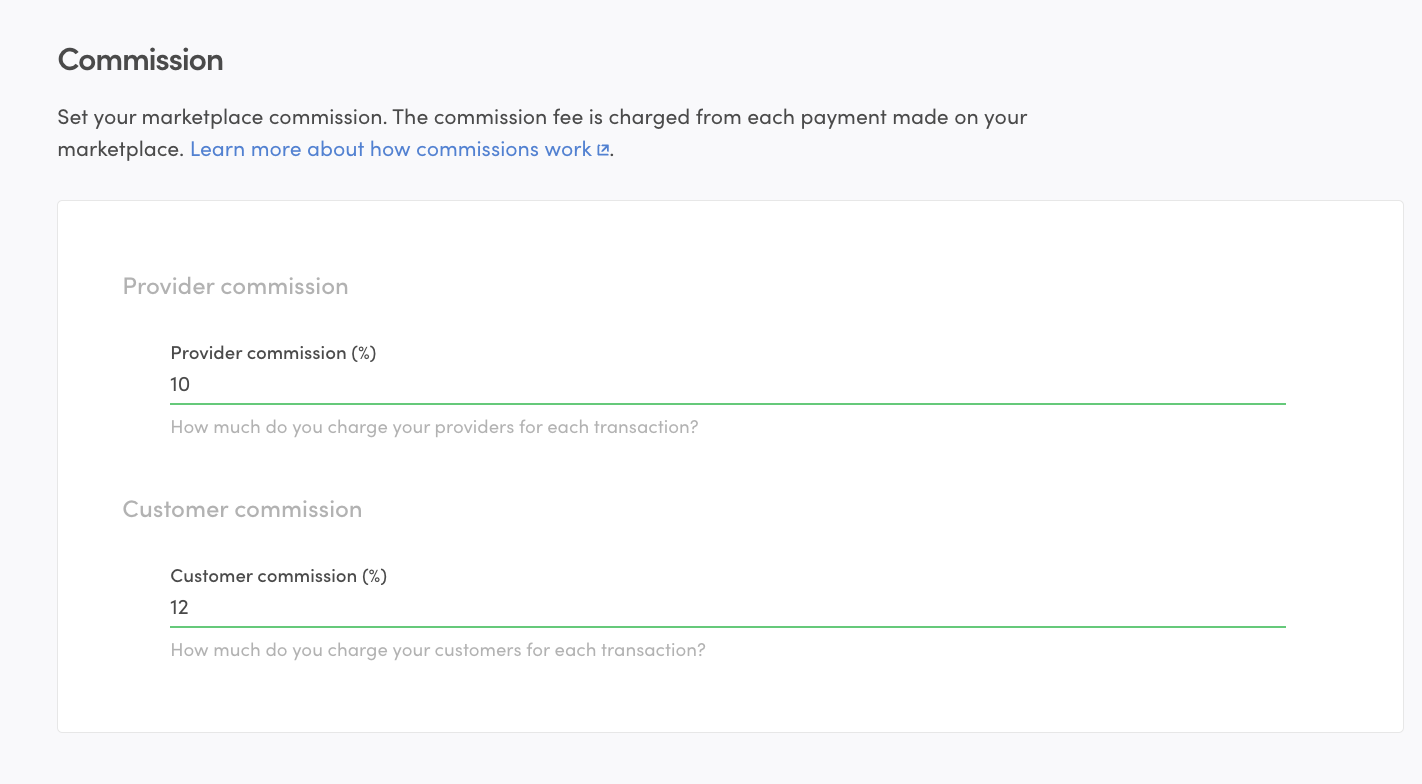
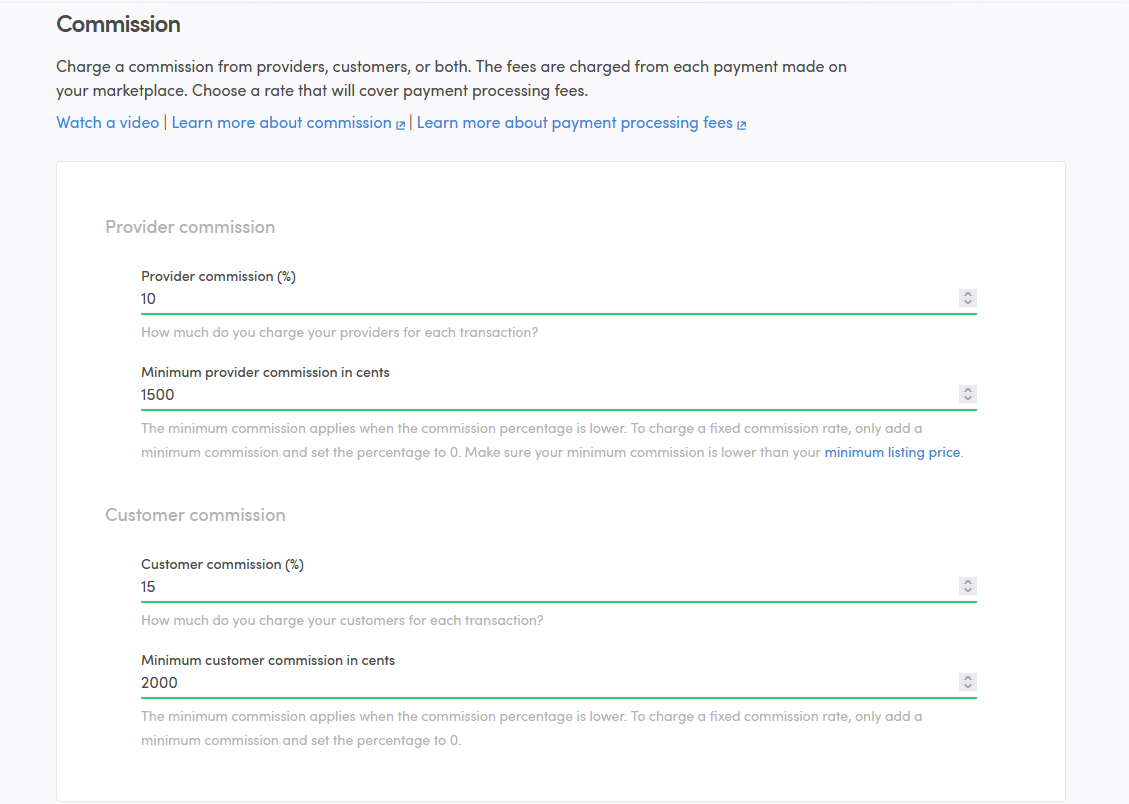
ConceptsPricingAndCommissoin: Updated to account for minimum comissions

diff --git a/src/docs/concepts-pricing-and-commissions/commissions-and-monetizing-your-platform/index.md b/src/docs/concepts-pricing-and-commissions/commissions-and-monetizing-your-platform/index.md
@@ -1,7 +1,7 @@
 ---
 title: Commissions and monetizing your platform
 slug: commissions-and-monetizing-your-platform
-updated: 2024-02-07
+updated: 2025-07-25
 category: concepts-pricing-and-commissions
 ingress:
   Sharetribe provides configurable options for monetizing your platform.
@@ -48,7 +48,8 @@ charged from the provider, the customer, or both.
 <info>
 
 If your application uses hosted configurations, you can define provider
-and customer commission percentages in Sharetribe Console.
+and customer commission percentages and minimum commission amounts in
+Sharetribe Console.
 
 ![Commission defined in Console](consoleCommission.png)
 
@@ -66,6 +67,8 @@ A marketplace that charges 10 % from the customer and 12 % from the
 provider would configure the commissions like this:
 
 ```js
+const { calculateTotalFromLineItems } = require('./lineItemHelpers');
+
 const PROVIDER_COMMISSION_PERCENTAGE = -12; // Provider commission is negative
 const CUSTOMER_COMMISSION_PERCENTAGE = 10; // Customer commission is positive
 
@@ -76,21 +79,25 @@ const order = {
   includeFor: ['customer', 'provider'],
 };
 
-const providerCommission = {
+const providerCommissionPercentage = {
   code: 'line-item/provider-commission',
   unitPrice: calculateTotalFromLineItems([order]),
   percentage: PROVIDER_COMMISSION_PERCENTAGE,
   includeFor: ['provider'],
 };
 
-const customerCommission = {
+const customerCommissionPercentage = {
   code: 'line-item/customer-commission',
   unitPrice: calculateTotalFromLineItems([order]),
   percentage: CUSTOMER_COMMISSION_PERCENTAGE,
   includeFor: ['customer'],
 };
 
-const lineItems = [order, providerCommission, customerCommission];
+const lineItems = [
+  order,
+  providerCommissionPercentage,
+  customerCommissionPercentage,
+];
 ```
 
 For a 100 EUR listing, this would result in a 110 EUR payin for the
@@ -135,14 +142,14 @@ const order = {
   includeFor: ['customer', 'provider'],
 };
 
-const providerCommission = {
+const providerCommissionFixed = {
   code: 'line-item/provider-commission',
   unitPrice: calculateCommission(unitPrice, FIXED_PROVIDER_COMMISSION),
   quantity: 1,
   includeFor: ['provider'],
 };
 
-const customerCommission = {
+const customerCommissionFixed = {
   code: 'line-item/customer-commission',
   unitPrice: calculateCommission(unitPrice, FIXED_CUSTOMER_COMMISSION),
   quantity: 1,
@@ -152,8 +159,8 @@ const customerCommission = {
 const lineItems = [
   order,
   ...extraLineItems,
-  providerCommission,
-  customerCommission,
+  providerCommissionFixed,
+  customerCommissionFixed,
 ];
 ```
 
@@ -174,6 +181,8 @@ but always at least 10 dollars.
 
 ### Example
 
+Add the following to _lineItemHelpers.js_:
+
 ```js
 // Base provider and customer commissions are fetched from assets
 const MINIMUM_PROVIDER_COMMISSION = -1000; // Negative commission in minor units, i.e. in USD cents
@@ -181,7 +190,7 @@ const CUSTOMER_COMMISSION_PERCENTAGE_REDUCTION = 3;
 
 const calculateProviderCommission = (order, providerCommission) => {
   // Use existing helper functions to calculate totals and percentages
-  const price = calculateTotalFromLineItems([order]);
+  const price = this.calculateTotalFromLineItems([order]);
   const commission = calculateTotalPriceFromPercentage(
     price,
     providerCommission
@@ -203,9 +212,52 @@ const calculateCustomerCommissionPercentage = (
     ? customerCommission.percentage -
       CUSTOMER_COMMISSION_PERCENTAGE_REDUCTION
     : customerCommission.percentage;
+
+exports.getDynamicProviderCommissionMaybe = (
+  order,
+  providerCommission
+) =>
+  this.hasCommissionPercentage(providerCommission)
+    ? [
+        {
+          code: 'line-item/provider-commission',
+          unitPrice: calculateProviderCommission(
+            order,
+            getNegation(providerCommission.percentage)
+          ),
+          quantity: 1,
+          includeFor: ['provider'],
+        },
+      ]
+    : [];
+
+exports.getDynamicCustomerCommissionMaybe = (
+  order,
+  customerCommission
+) =>
+  this.hasCommissionPercentage(customerCommission)
+    ? [
+        {
+          code: 'line-item/customer-commission',
+          unitPrice: this.calculateTotalFromLineItems([order]),
+          percentage: calculateCustomerCommissionPercentage(
+            order,
+            customerCommission
+          ),
+          includeFor: ['customer'],
+        },
+      ]
+    : [];
 ```
 
+Then you can use the function like this in _lineItems.js_:
+
 ```js
+const {
+  getDynamicProviderCommissionMaybe,
+  getDynamicCustomerCommissionMaybe,
+} = require('./lineItemHelpers');
+
 const order = {
   code,
   unitPrice,
@@ -213,60 +265,13 @@ const order = {
   includeFor: ['customer', 'provider'],
 };
 
-// Provider commission reduces the amount of money that is paid out to provider.
-// Therefore, the provider commission line-item should have negative effect to the payout total.
-const getNegation = percentage => {
-  return -1 * percentage;
-};
-
-// Note: extraLineItems for product selling (aka shipping fee)
-// is not included in either customer or provider commission calculation.
-
-// The provider commission is what the provider pays for the transaction, and
-// it is the subtracted from the order price to get the provider payout:
-// orderPrice - providerCommission = providerPayout
-const providerCommissionMaybe = hasCommissionPercentage(
-  providerCommission
-)
-  ? [
-      {
-        code: 'line-item/provider-commission',
-        unitPrice: calculateProviderCommission(
-          order,
-          getNegation(providerCommission.percentage)
-        ),
-        quantity: 1,
-        includeFor: ['provider'],
-      },
-    ]
-  : [];
-
-// The customer commission is what the customer pays for the transaction, and
-// it is added on top of the order price to get the customer's payin price:
-// orderPrice + customerCommission = customerPayin
-const customerCommissionMaybe = hasCommissionPercentage(
-  customerCommission
-)
-  ? [
-      {
-        code: 'line-item/customer-commission',
-        unitPrice: calculateTotalFromLineItems([order]),
-        percentage: calculateCustomerCommissionPercentage(
-          order,
-          customerCommission
-        ),
-        includeFor: ['customer'],
-      },
-    ]
-  : [];
-
 // Let's keep the base price (order) as first line item and provider and customer commissions as last.
 // Note: the order matters only if OrderBreakdown component doesn't recognize line-item.
 const lineItems = [
   order,
   ...extraLineItems,
-  ...providerCommissionMaybe,
-  ...customerCommissionMaybe,
+  ...getDynamicProviderCommissionMaybe(order, providerCommission),
+  ...getDynamicCustomerCommissionMaybe(order, customerCommission),
 ];
 ```
 
